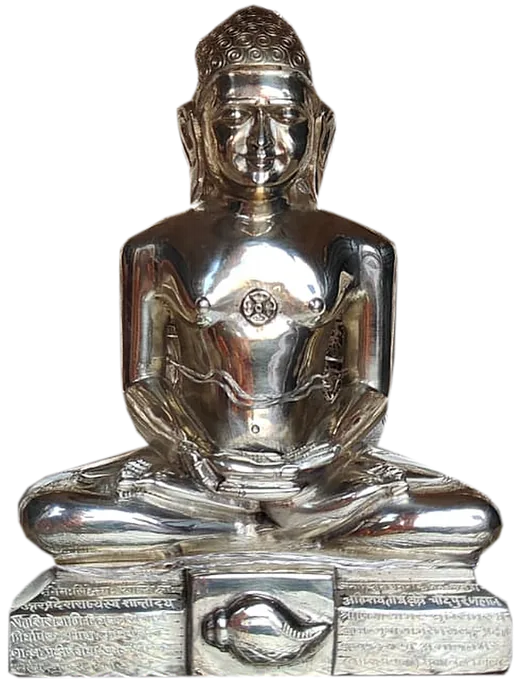
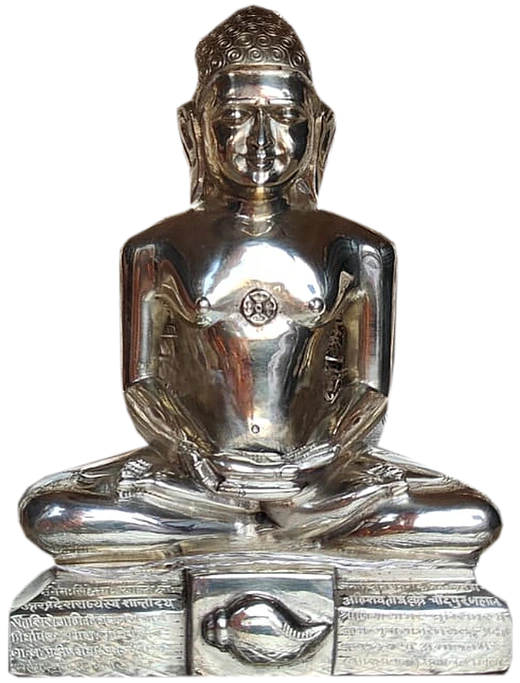
Murti photo without the chain

Changed region(s): [[0.2769, 0.4919, 0.6462, 0.6149]]

diff --git a/sw.js b/sw.js
@@ -8,7 +8,7 @@
    everything else still works. */
 try { importScripts("https://cdn.onesignal.com/sdks/web/v16/OneSignalSDK.sw.js"); } catch (e) {}
 
-var CACHE = "nemidham-v7";
+var CACHE = "nemidham-v8";
 var SHELL = ["./", "index.html", "css/style.css", "css/theme2.css", "css/brand.css", "css/fonts.css", "js/data.js", "js/jain-today.js", "js/i18n.js", "js/main.js", "images/mandir-logo.webp", "images/icon-192.png", "images/icon-512.png"];
 var WAIT_MS = 2500;
 /* when a page had to be shown from the saved copy (slow network), its styles and scripts are also taken from the saved copy
